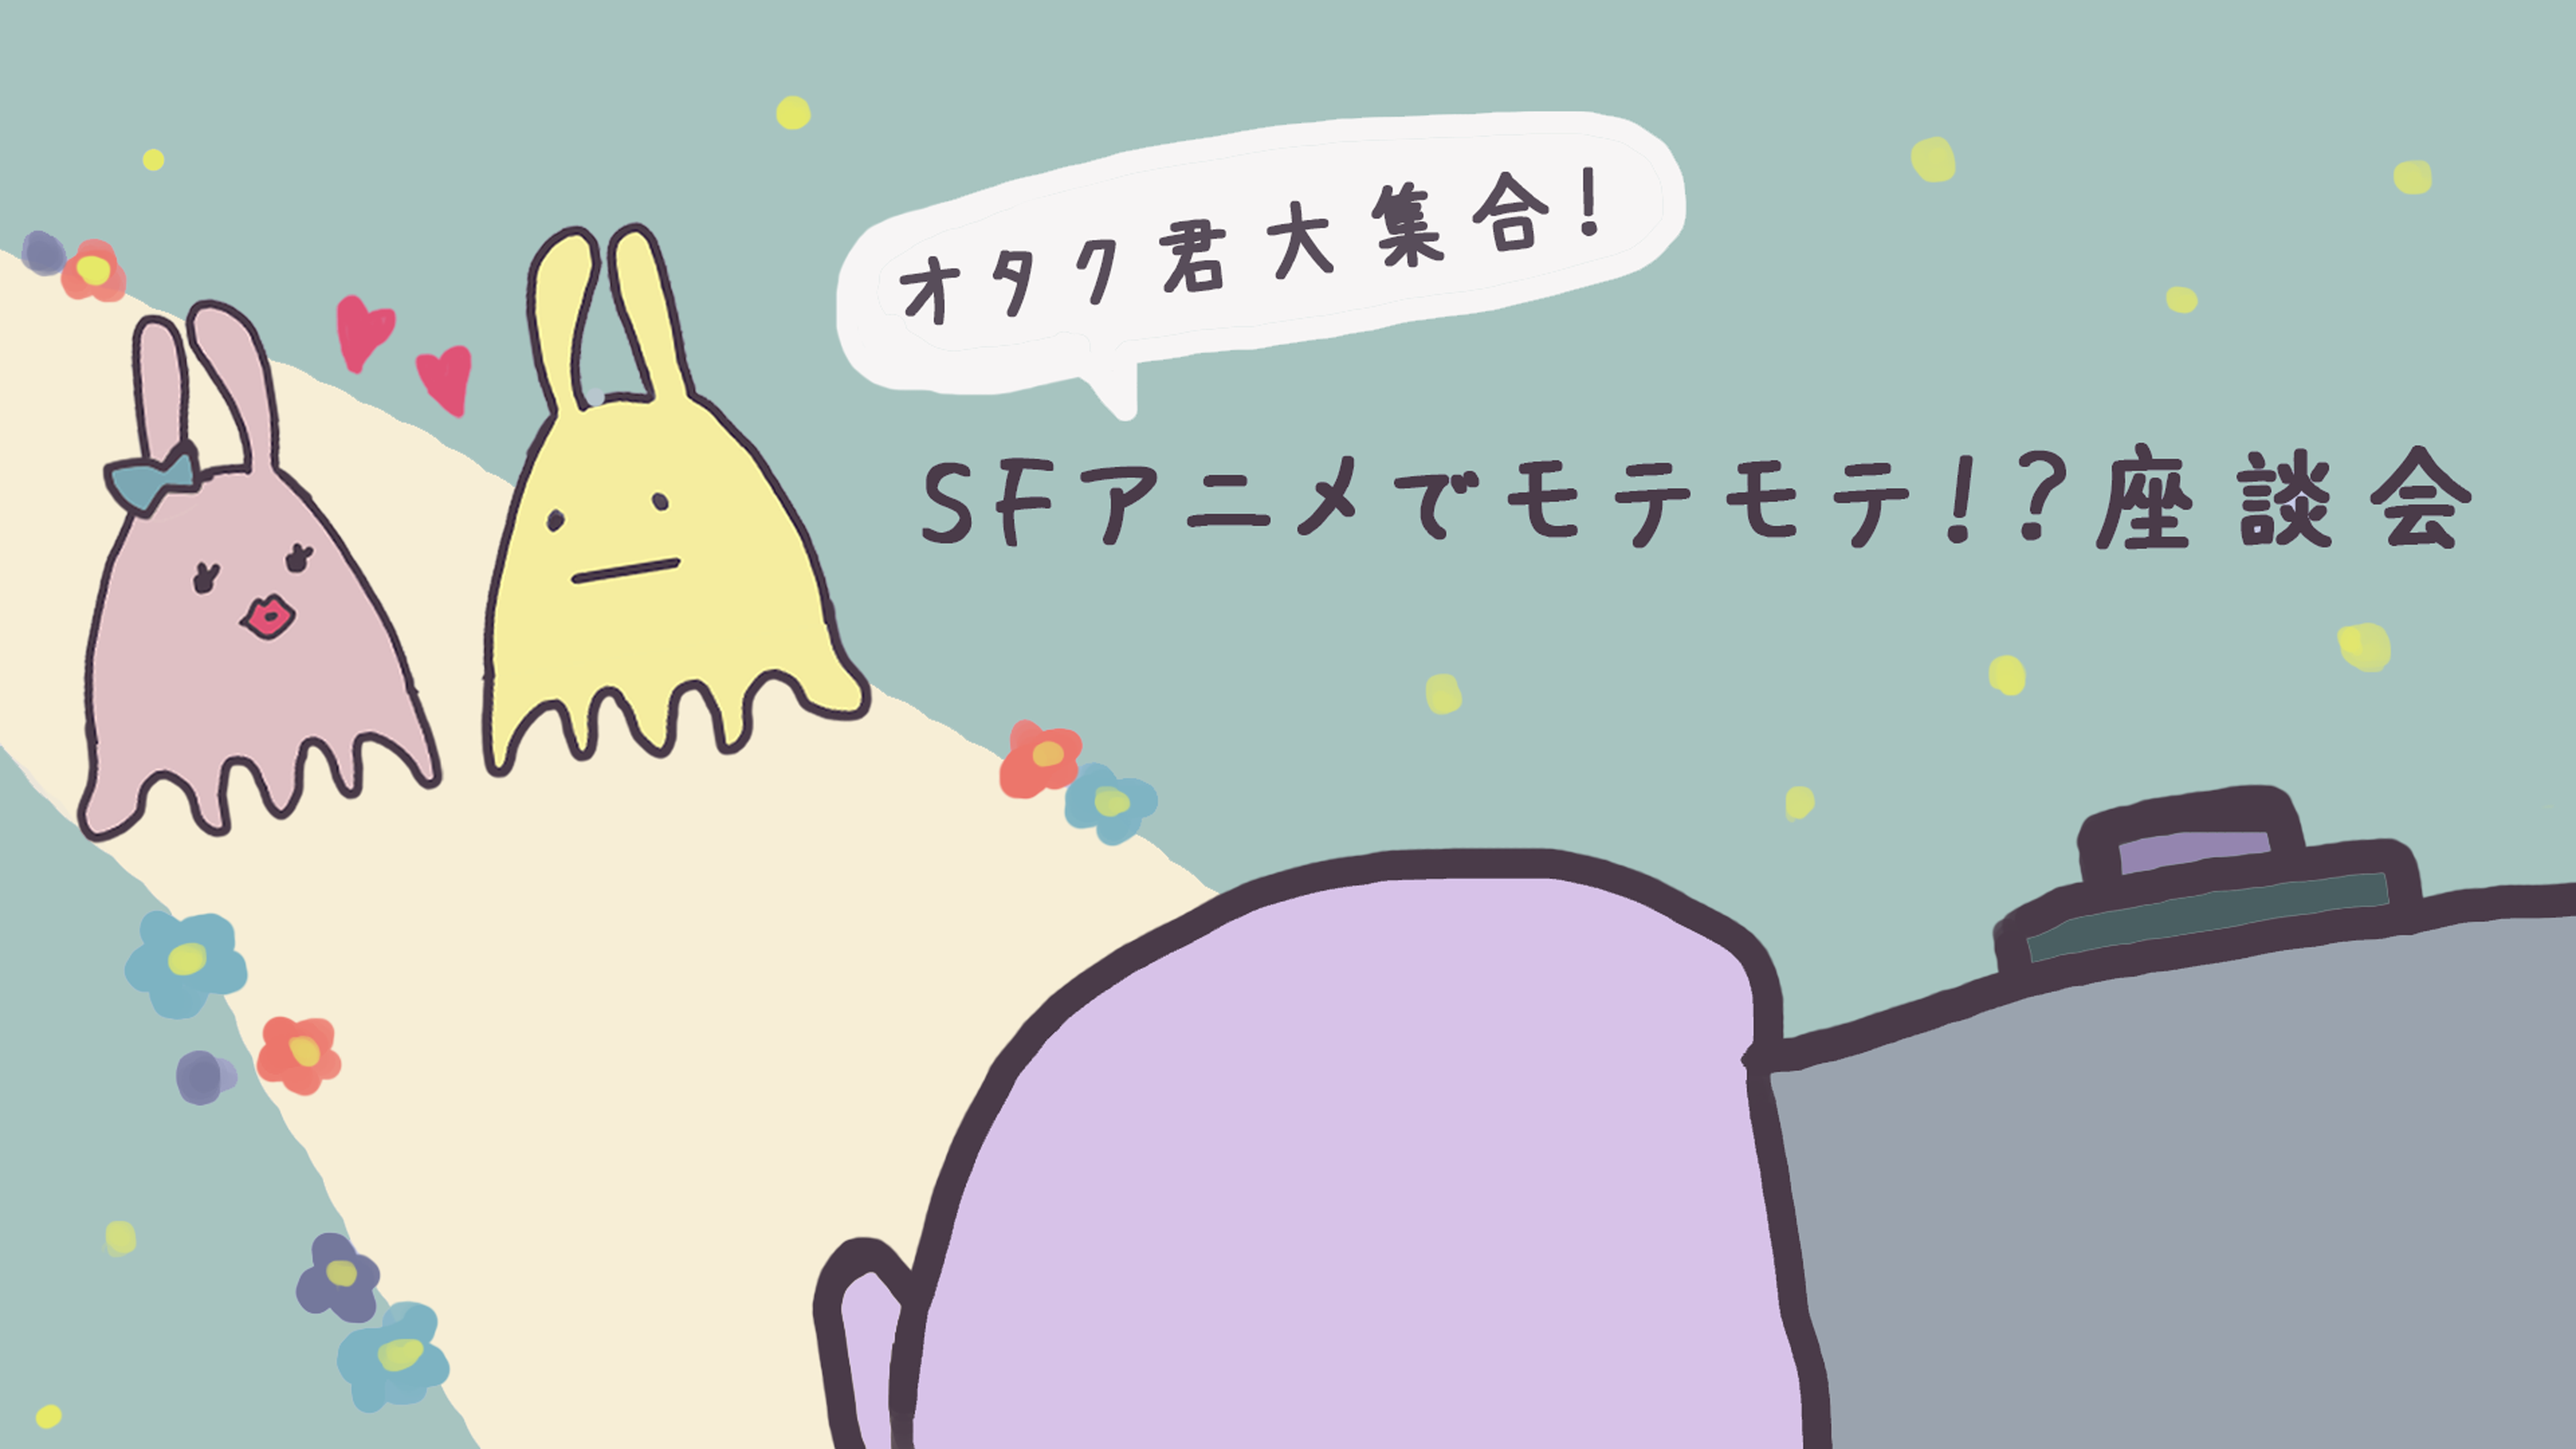
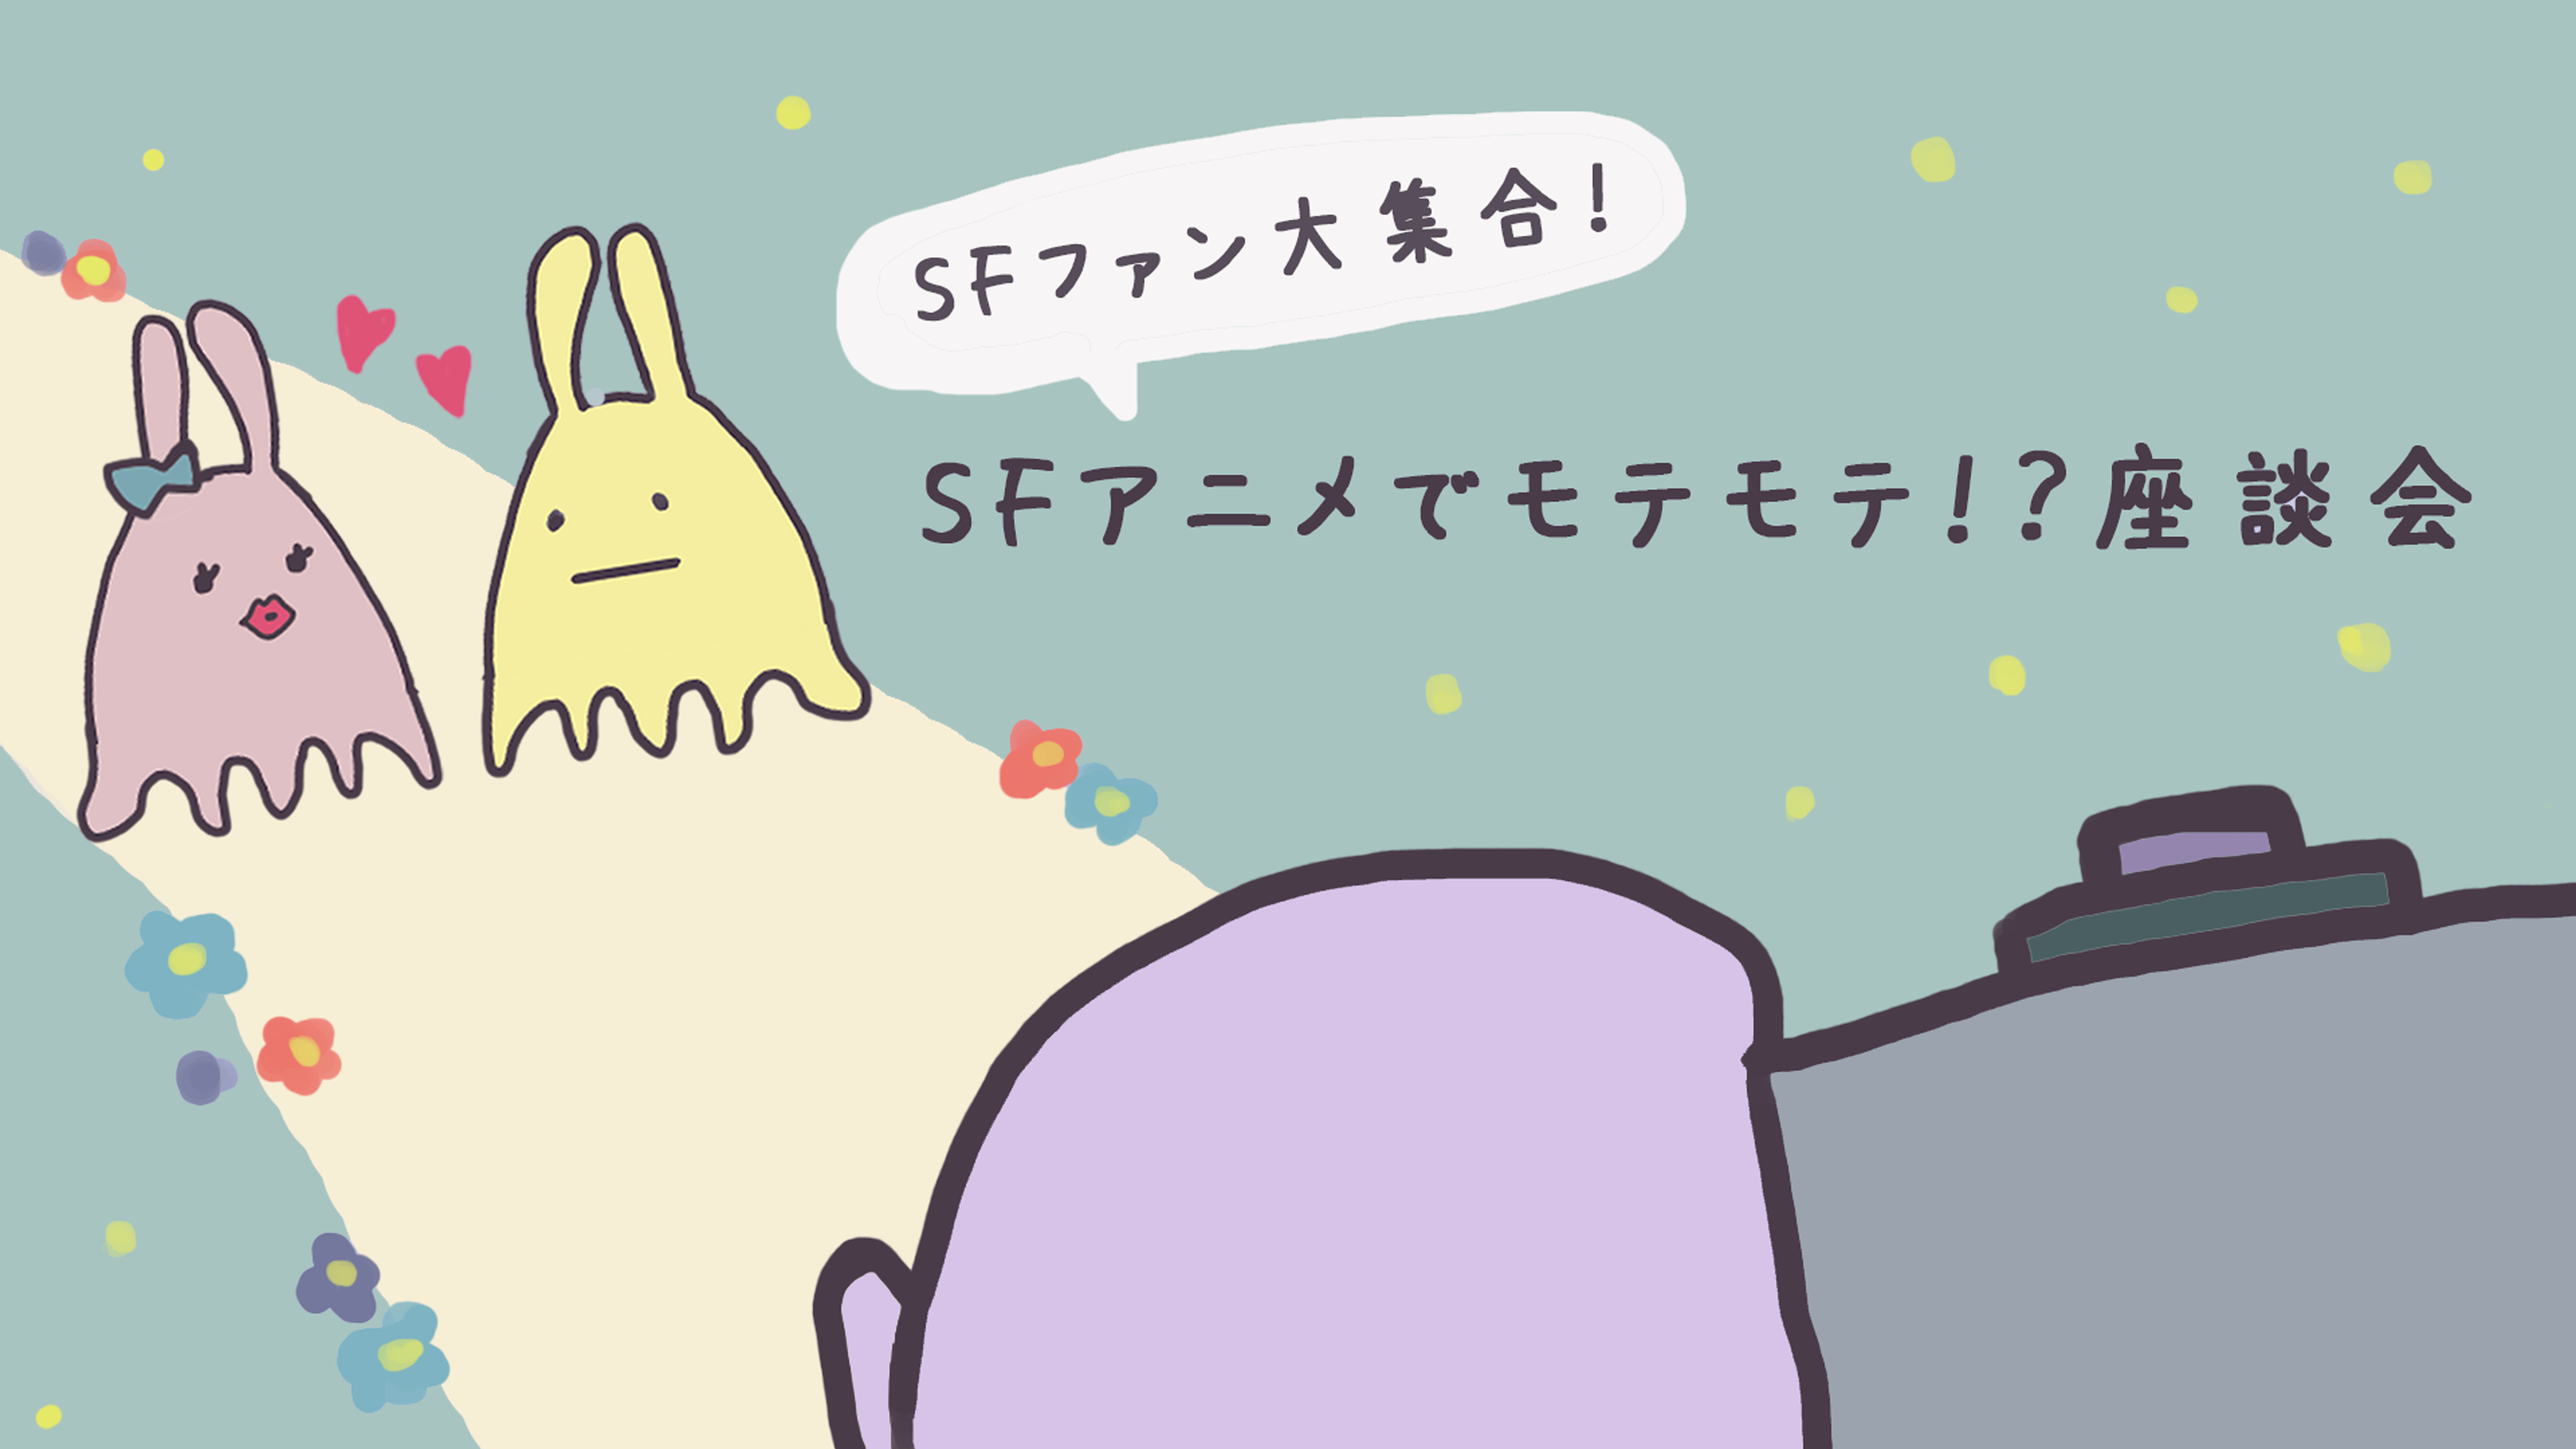
Update 記事 “オタク君大集合！sfアニメでモテモテ座談会”

Changed region(s): [[0.3438, 0.1241, 0.625, 0.2171]]

diff --git a/src/pages/articles/オタク君大集合！sfアニメでモテモテ座談会.md b/src/pages/articles/オタク君大集合！sfアニメでモテモテ座談会.md
@@ -1,6 +1,6 @@
 ---
 templateKey: blog-post
-title: オタク君大集合！SFアニメでモテモテ座談会
+title: SFファン大集合！SFアニメでモテモテ座談会
 featured: false
 categories:
   - CULTURE
@@ -27,7 +27,7 @@ issuedAt: 2020-11-07T01:21:55.273Z
 <div class="talk-left">
   <div class="nanika"></div>
   <div class="serif">
-    SFといえばオタク君。今日はSFアニメについて、朝まで語り明かしていただきます。
+    今日はSFアニメについて、朝まで語り明かしていただきます。
   </div>
 </div>
 
@@ -50,7 +50,7 @@ issuedAt: 2020-11-07T01:21:55.273Z
 <div class="talk-right">
   <div class="nanika"></div>
   <div class="serif">
-    そういうのは賢いオタク君に任せておいて、我々はサブカルオタクらしく、ゆるい会話をしよう。  </div>
+    ちょっと待って、急にヘビーすぎる。もうちょっとゆるい会話をしよう。  </div>
 </div>
 
 <br><br>
@@ -252,7 +252,7 @@ issuedAt: 2020-11-07T01:21:55.273Z
 <div class="talk-left">
   <div class="uma"></div>
   <div class="serif">
-  結論、美少年は金になる。
+  結論、美少年はお金になる。
   </div>
 </div>
 
